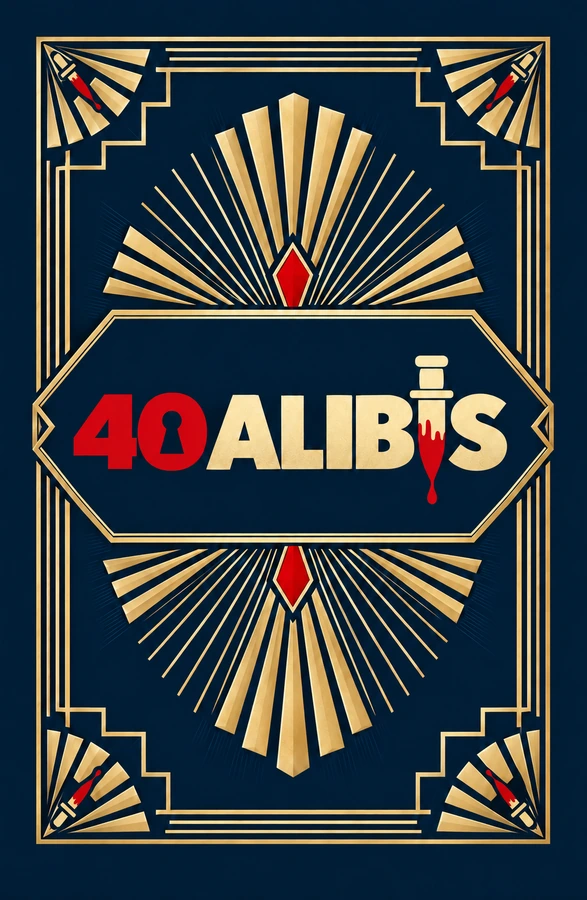
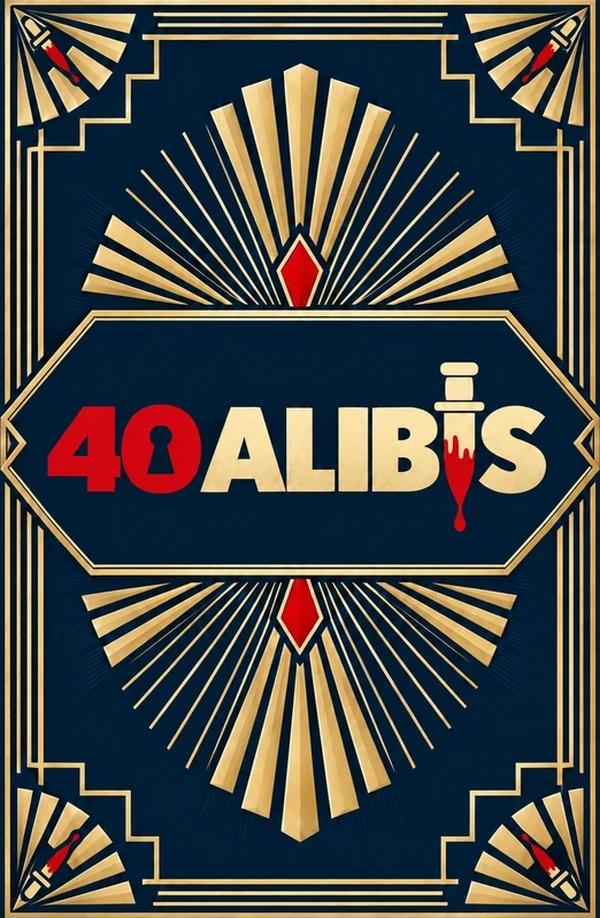
Cut the card backs to their frames and keep them crisp when tilted
Each back is cropped to the outer line of its design, so no dark margin ever
shows inside the gold card border, and resampled to the card's exact shape at
3x (600x918) so nothing is left for object-fit to trim. Tilted title cards and
art backs are composited as their own layers so edges and art are resampled
smoothly at any angle.

diff --git a/client/src/components/CardBack.css b/client/src/components/CardBack.css
@@ -49,9 +49,14 @@
 }
 
 /* Art backs: the picture is the whole back, so the lattice and the inset keyline give way to it.
-   The gold border stays so a back keeps the same footprint as a face beside it. */
+   The gold border stays so a back keeps the same footprint as a face beside it. The art is cut to
+   the card's exact shape at 3x (600x918), so nothing is trimmed here and no margin ever shows;
+   the back is composited as one layer so it stays crisp when tilted or scaled. */
 .cardback--art {
   background: #10131c;
+  isolation: isolate;
+  backface-visibility: hidden;
+  transform: translateZ(0);
 }
 .cardback--art::before {
   content: none;

diff --git a/client/src/screens/Title.css b/client/src/screens/Title.css
@@ -81,6 +81,10 @@
   position: absolute;
   transform-origin: center center;
   filter: drop-shadow(0 12px 22px rgba(0, 0, 0, 0.55));
+  /* Composite each tilted card as its own layer so its edges and art are resampled smoothly at
+     the angle, rather than rasterised upright and then rotated with stair-stepping. */
+  backface-visibility: hidden;
+  will-change: transform;
 }
 
 .title__crest {
